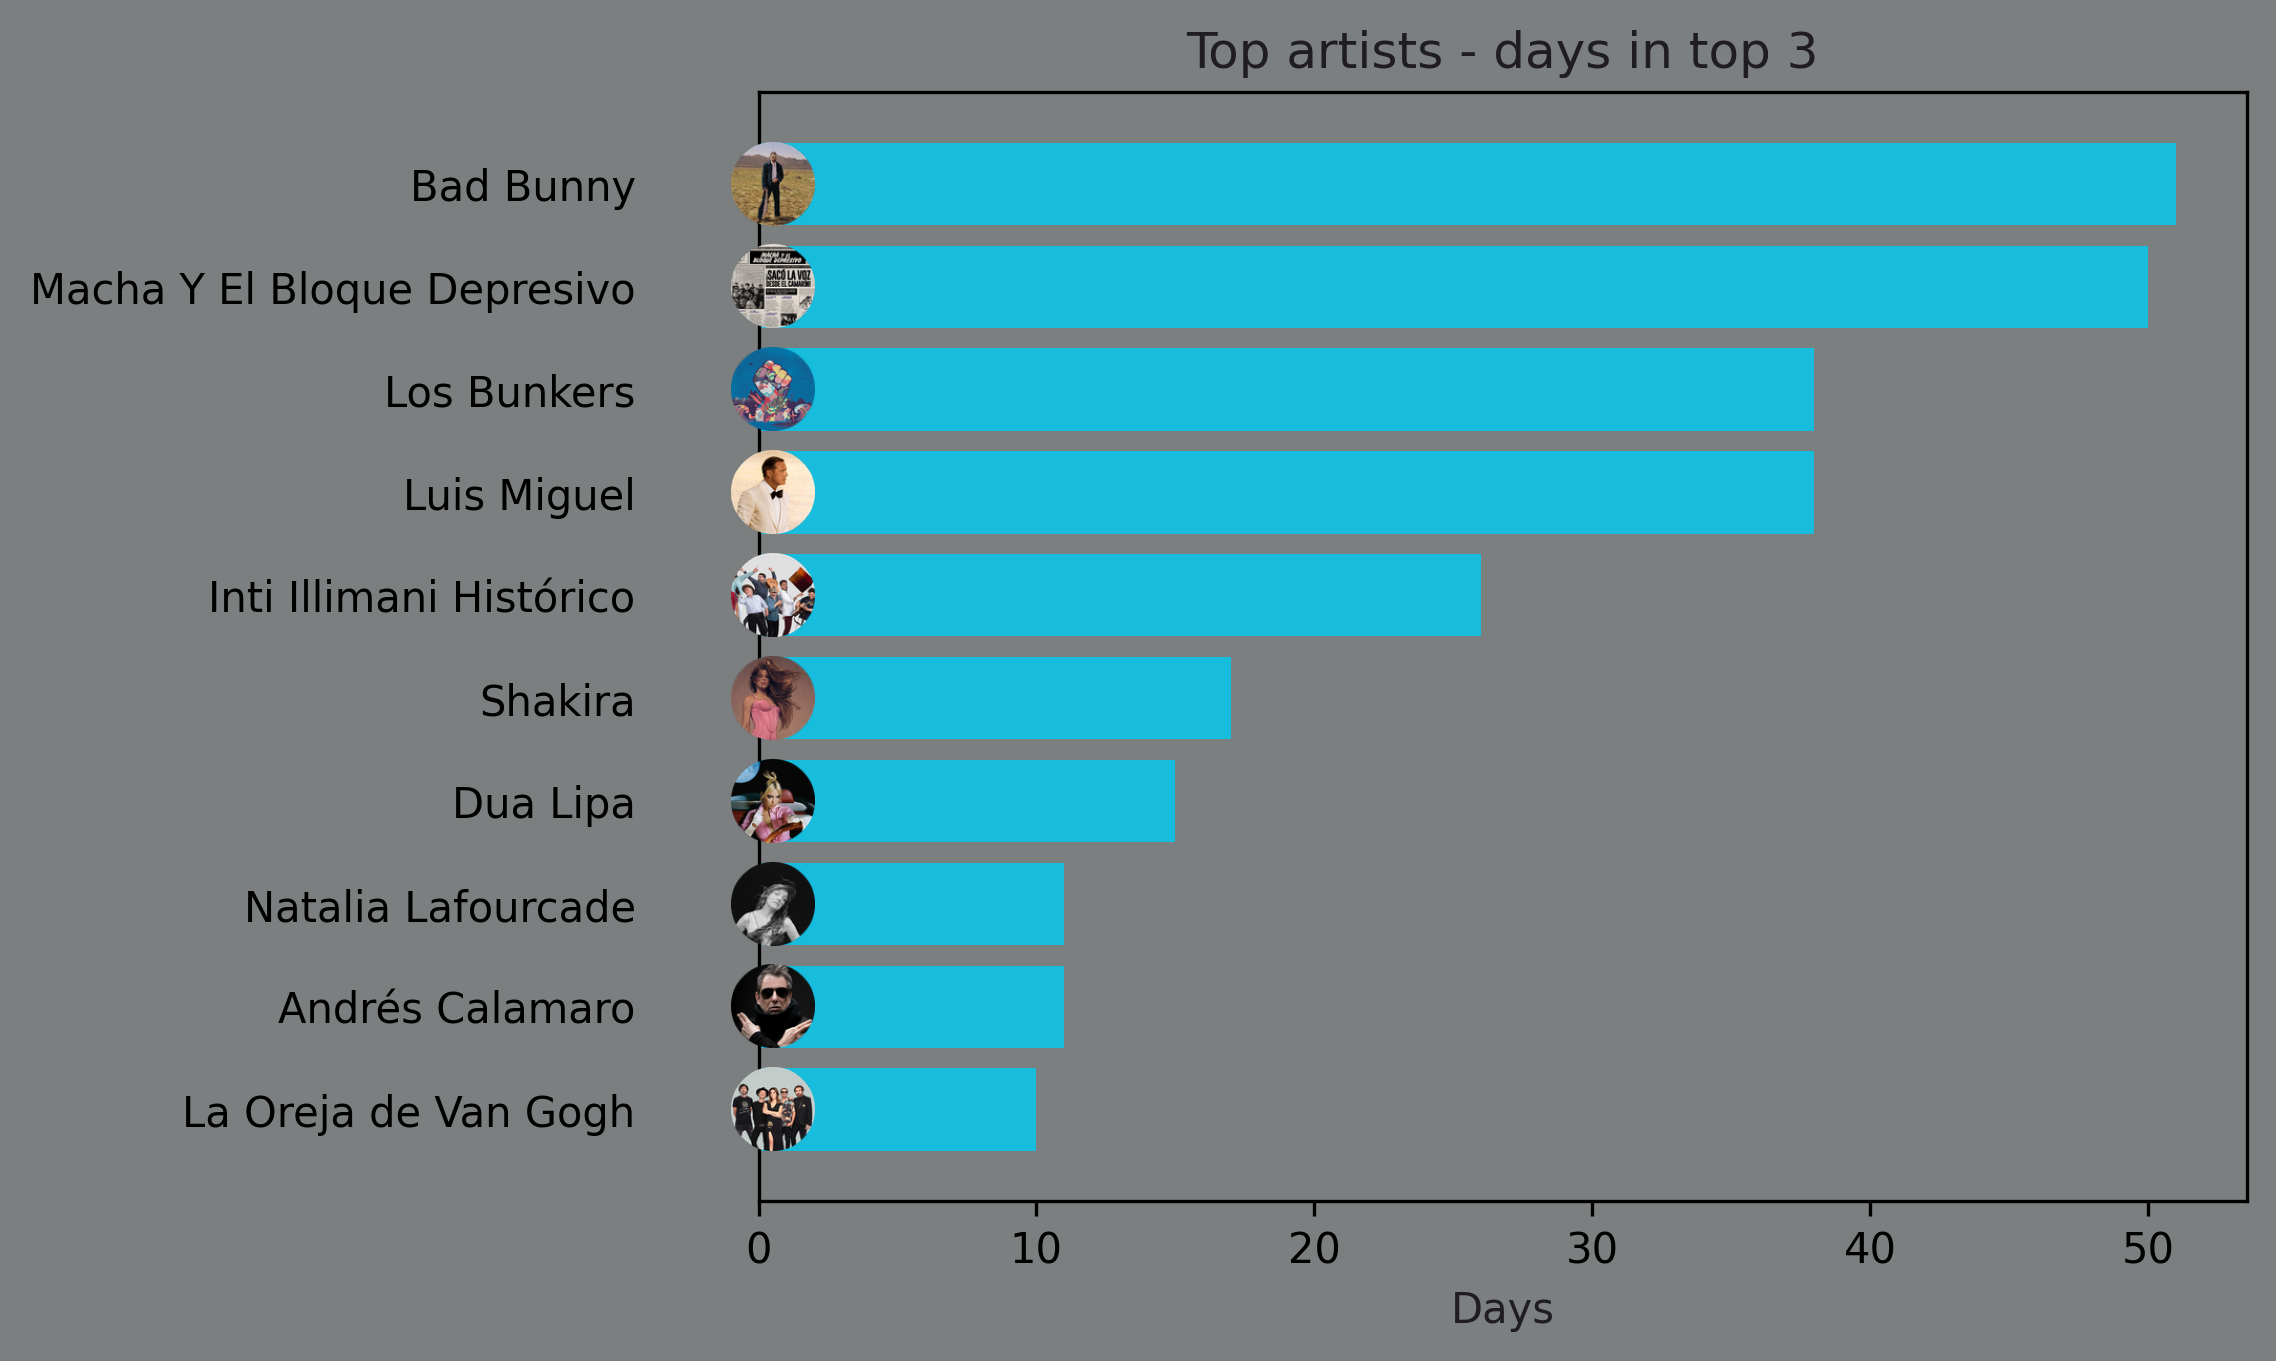
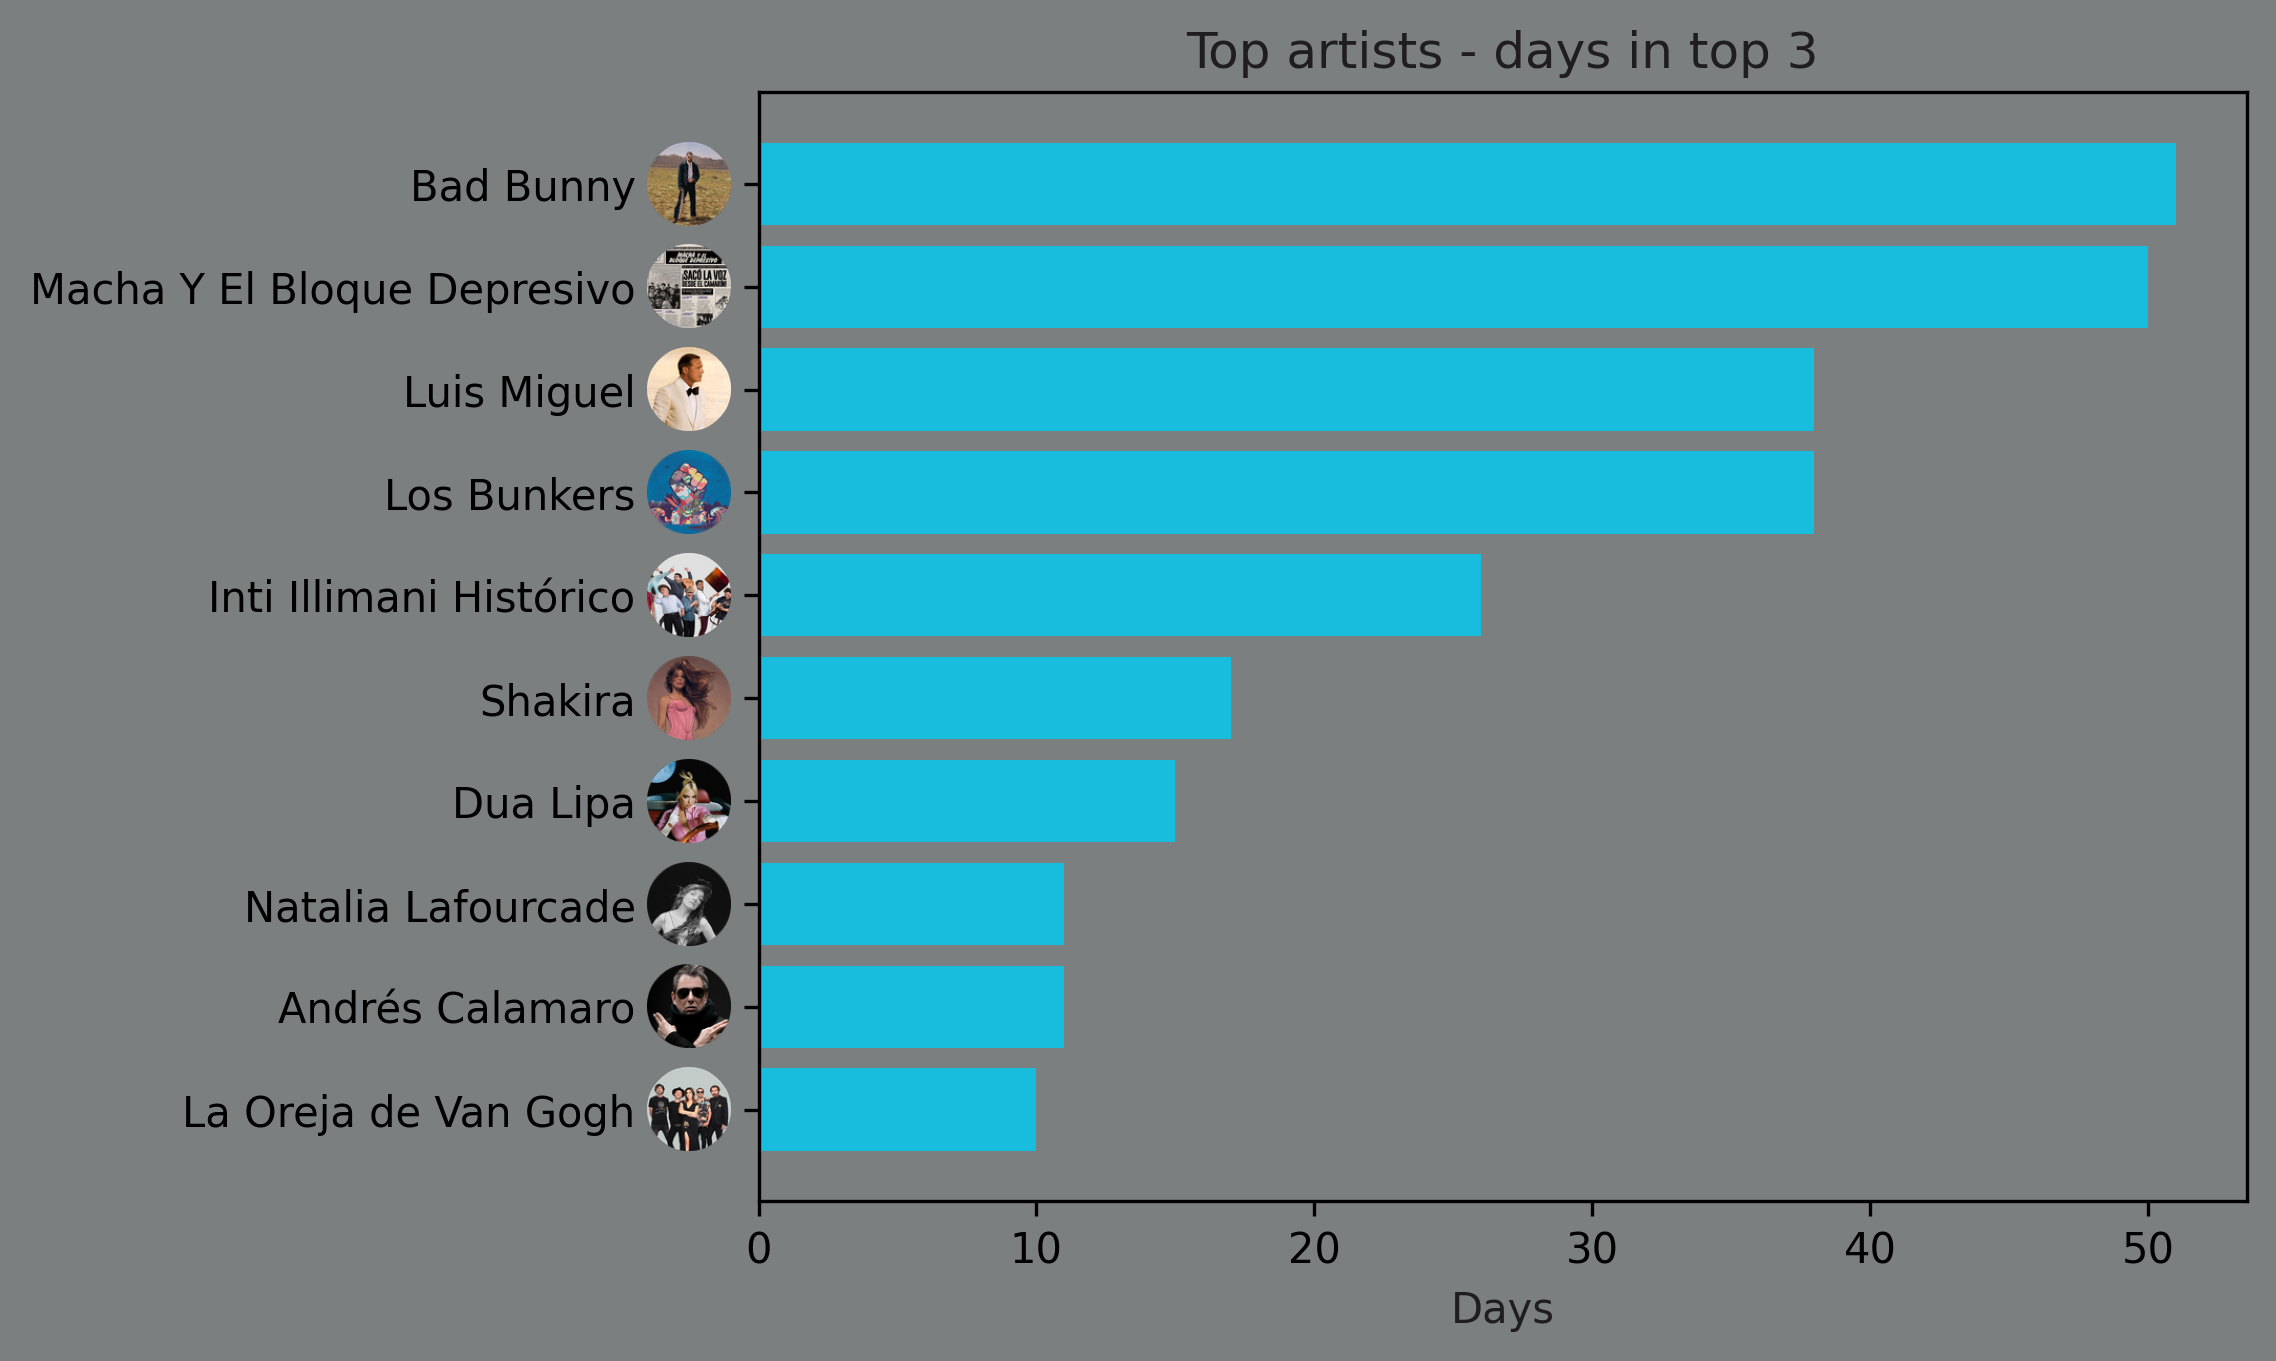
update: add offset to images

Changed region(s): [[0.156, 0.0926, 0.3743, 0.8641]]

diff --git a/src/ranking_plotter.py b/src/ranking_plotter.py
@@ -37,14 +37,14 @@ class RankingImageGenerator:
         return np.array(img)
 
     @staticmethod
-    def offset_image(coord, url, ax):
+    def offset_image(coord, url, ax, offset):
         img = RankingImageGenerator.get_image(url)
         im = OffsetImage(img, zoom=0.25)
         im.image.axes = ax
 
         ab = AnnotationBbox(
             im,
-            (5, coord),
+            (offset, coord),
             xybox=(-30.0, 0.0),
             frameon=False,
             xycoords="data",
@@ -72,8 +72,11 @@ class RankingImageGenerator:
         fig.set_facecolor(BACKGROUND_COLOR)
         ax.set_facecolor(BACKGROUND_COLOR)
 
+        max_val = max(values)
+        print("max_name_length: ", max_val)
+        offset = max_val // 25
         for i, url in enumerate(image_urls):
-            self.offset_image(i, url, ax)
+            self.offset_image(i, url, ax, offset)
 
         return fig, ax
 
